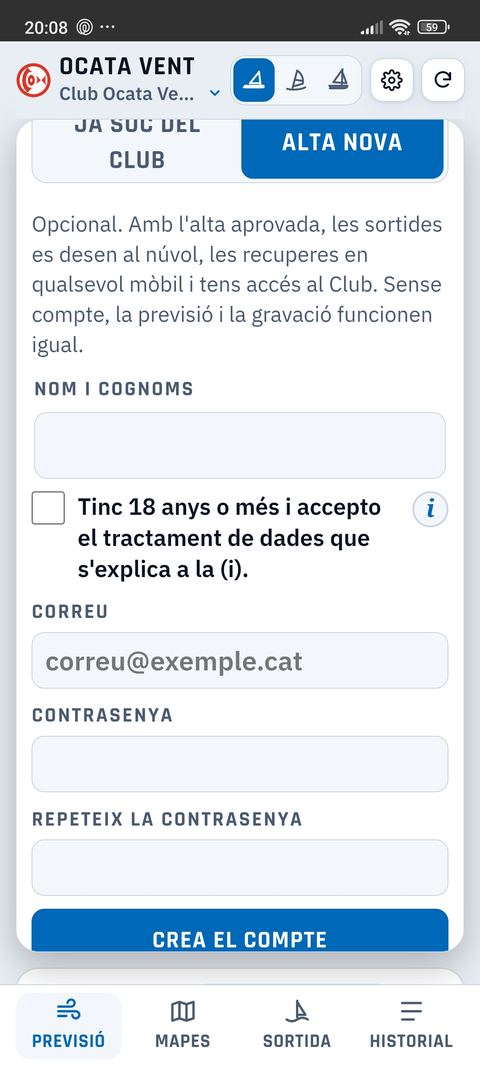
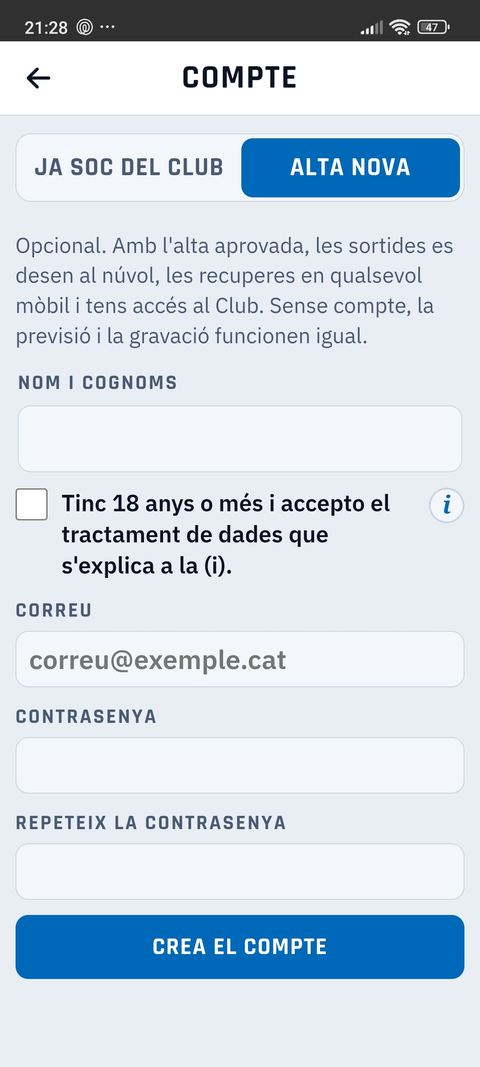
Docs: infografia d'alta amb el nou flux Menú ▸ Compte i pas del telèfon
Claude-Session: https://claude.ai/code/session_01R2aZCVbCPdoxRpJTztN7Lu

Changed region(s): [[0.0, 0.0, 1.0, 0.9897]]

diff --git a/docs/instalacio.html b/docs/instalacio.html
@@ -148,24 +148,24 @@ section{background:var(--paper);border:1px solid var(--line);border-radius:16px;
 
   <ol class="steps">
     <li class="step">
-      <div class="n"><i>1</i>Alta nova</div>
-      <div class="phone"><img src="instalacio/alta-1-compte.jpg" alt="Configuració ▸ Compte, amb les pestanyes «Ja soc del club» i «Alta nova»" loading="lazy"><div class="hl" style="left:50.5%;top:20.5%;width:43%;height:7%"></div></div>
-      <p>Toca el botó <b>⋮</b> ▸ <span class="ui">Compte</span> i tria <span class="ui">Alta nova</span>.</p>
+      <div class="n"><i>1</i>Obre el compte</div>
+      <div class="phone"><img src="instalacio/alta-1-menu.jpg" alt="Menú de configuració amb l'opció «Compte»" loading="lazy"><div class="hl" style="left:29%;top:41.6%;width:67%;height:5.4%"></div></div>
+      <p>Toca el botó <b>⋮</b> de dalt a la dreta i tria <span class="ui">Compte</span>.</p>
     </li>
     <li class="step">
-      <div class="n"><i>2</i>Omple les dades</div>
-      <div class="phone"><img src="instalacio/alta-2-formulari.jpg" alt="Formulari d'alta amb nom, correu i contrasenya" loading="lazy"><div class="hl" style="left:6%;top:46%;width:82%;height:8.5%"></div><div class="hl" style="left:6%;top:84.8%;width:88%;height:4.6%"></div></div>
-      <p>Nom i cognoms, correu i contrasenya (dues vegades). Marca que tens <b>18 anys o més</b> i accepta el tractament de dades. Toca <span class="ui">Crea el compte</span>.</p>
+      <div class="n"><i>2</i>Alta nova</div>
+      <div class="phone"><img src="instalacio/alta-2-formulari.jpg" alt="Compte ▸ Alta nova, amb el formulari d'alta" loading="lazy"><div class="hl" style="left:50.5%;top:12.8%;width:45%;height:5.8%"></div><div class="hl" style="left:3%;top:45.2%;width:94%;height:9.5%"></div><div class="hl" style="left:3%;top:85.8%;width:94%;height:6%"></div></div>
+      <p>Tria <span class="ui">Alta nova</span>. Posa nom i cognoms, correu i contrasenya (dues vegades). Marca que tens <b>18 anys o més</b> i accepta el tractament de dades. Toca <span class="ui">Crea el compte</span>.</p>
     </li>
     <li class="step">
       <div class="n"><i>3</i>Queda pendent</div>
-      <div class="phone"><img src="instalacio/alta-3-pendent-compte.jpg" alt="Compte «Pendent d'aprovació»" loading="lazy"><div class="hl" style="left:6%;top:25.3%;width:88%;height:13.8%"></div></div>
-      <p>Surt <b>«Pendent d'aprovació»</b>: l'administració del club ha d'acceptar l'alta. Mentrestant, les sortides es desen només al teu mòbil.</p>
+      <div class="phone"><img src="instalacio/alta-3-pendent.jpg" alt="Pestanya Club amb «Pendent d'aprovació» i el botó «Torna-ho a comprovar»" loading="lazy"><div class="hl" style="left:6%;top:33.4%;width:88%;height:6.2%"></div></div>
+      <p>L'administració del club ha d'acceptar l'alta. A la pestanya <span class="ui">Club</span> surt <b>«Pendent d'aprovació»</b>; toca <span class="ui">Torna-ho a comprovar</span>. Quan s'aprovi, hi veuràs el mur, els avisos, els anuncis i qui és a la base.</p>
     </li>
     <li class="step">
-      <div class="n"><i>4</i>Torna-ho a comprovar</div>
-      <div class="phone"><img src="instalacio/alta-4-pendent-club.jpg" alt="Pestanya Club amb el botó «Torna-ho a comprovar»" loading="lazy"><div class="hl" style="left:6%;top:33.4%;width:88%;height:6.2%"></div></div>
-      <p>A la pestanya <span class="ui">Club</span>, toca <span class="ui">Torna-ho a comprovar</span>. Quan l'alta s'aprovi, hi veuràs el mur, els avisos, els anuncis i qui és a la base.</p>
+      <div class="n"><i>4</i>Afegeix el telèfon</div>
+      <div class="phone"><img src="instalacio/alta-4-dades.jpg" alt="Pantalla «Dades personals» amb el camp de telèfon opcional" loading="lazy"><div class="hl" style="left:3%;top:42.6%;width:94%;height:5.4%"></div></div>
+      <p>Opcional. A <span class="ui">Compte</span> ▸ <span class="ui">Nom, correu i telèfon</span> pots posar el mòbil. Només el veuen la Junta i qui té el permís «Seguretat», per trucar-te si avises el club des de l'aigua.</p>
     </li>
   </ol>
 
